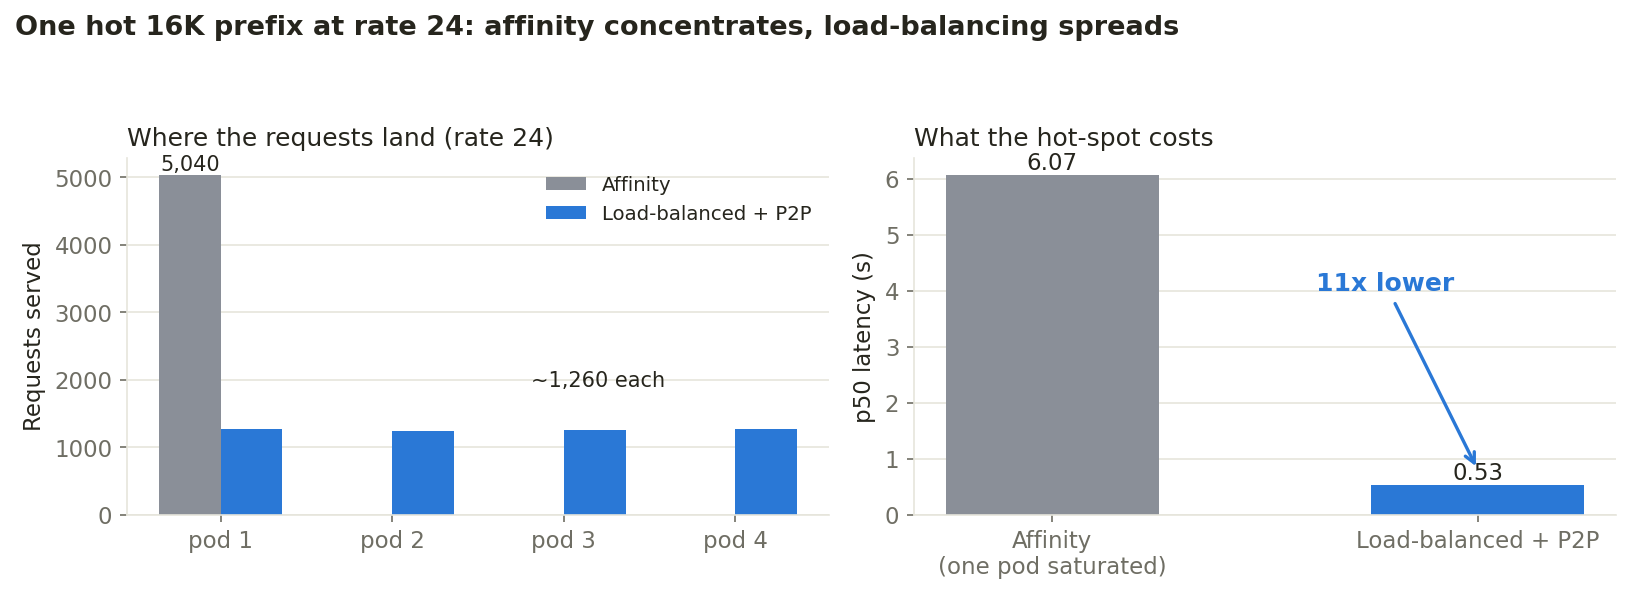
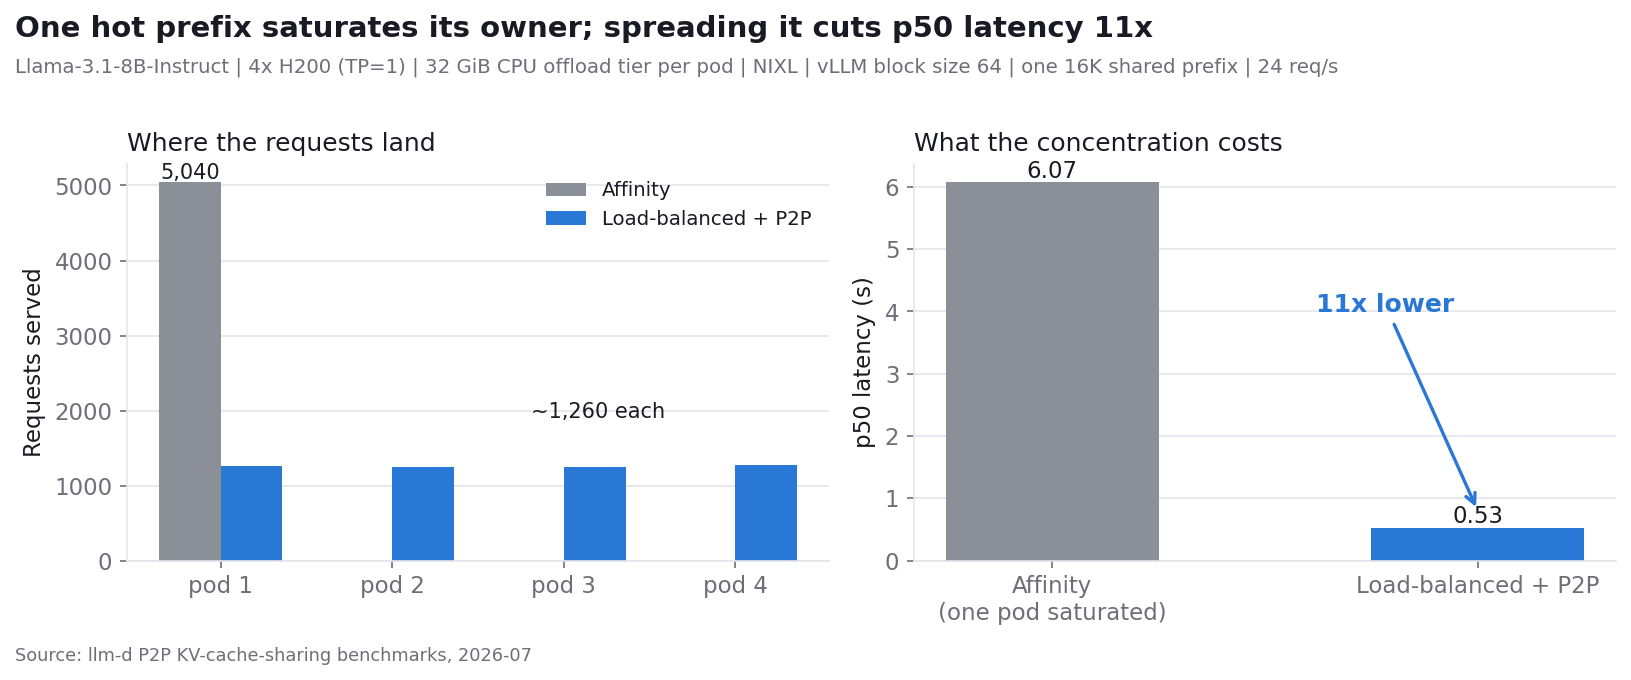
blog(p2p): InferenceMAX-style figures for the small-model scenarios; antislop pass
The four Llama-8B figures get the same headline/spec/source chrome as the
gpt-oss figures; text sweep removes filler intensifiers and marker
phrasing.

diff --git a/blog/2026-08-15_p2p-kv-cache-sharing-llm-d.md b/blog/2026-08-15_p2p-kv-cache-sharing-llm-d.md
@@ -34,7 +34,7 @@ llm-d already attacks this problem from two directions:
 * **Prefix-aware routing.** The EPP tracks which pods hold which prefix blocks (approximately, from routing history, or precisely, from KV events) and scores candidates accordingly, so requests land where their cache lives.
 * **KV cache offloading.** vLLM's Offloading Connector spills KV blocks from GPU HBM to a much larger CPU memory tier, and llm-d's [filesystem backend](https://llm-d.ai/blog/native-kv-cache-offloading-to-any-file-system-with-llm-d) extends that to shared storage for cluster-wide reuse and persistence.
 
-But routing alone cannot make a cold pod warm, and shared storage introduces an infrastructure dependency plus a storage-speed data path. There is a middle option: the blocks the request needs are often sitting in a peer pod's CPU offload tier, one network hop away, at memory speed. P2P KV cache sharing uses exactly that path.
+But routing alone cannot make a cold pod warm, and shared storage introduces an infrastructure dependency plus a storage-speed data path. There is a middle option: the blocks the request needs are often sitting in a peer pod's CPU offload tier, one network hop away, at memory speed. P2P KV cache sharing uses that path.
 
 ## How P2P Works
 
@@ -45,7 +45,7 @@ The P2P connector generalizes the prefill/decode (P/D) disaggregation connector 
 
 A single peer can be a consumer for some requests and a producer for others at the same time, over the same session.
 
-The transfer itself is best-effort and asynchronous. The consumer sends the producer the block hashes it needs; the producer matches them against its local CPU cache and answers with the hits; the consumer allocates CPU slots for the hits and the producer pushes the blocks over NIXL. Hits load into the GPU as normal cache hits; misses are simply recomputed by the engine, so a partial or failed transfer degrades to today's behavior rather than failing the request.
+The transfer itself is best-effort and asynchronous. The consumer sends the producer the block hashes it needs; the producer matches them against its local CPU cache and answers with the hits; the consumer allocates CPU slots for the hits and the producer pushes the blocks over NIXL. Hits load into the GPU as normal cache hits; misses are recomputed by the engine, so a partial or failed transfer degrades to today's behavior rather than failing the request.
 
 {/* TODO: architecture figure - consumer/producer control + data path
    (ZMQ lookup/fetch, NIXL write), alongside the EPP header flow. */}
@@ -121,8 +121,8 @@ The workload where the pull changes what users feel: 192 distinct
 questions with 256-token answers, 128 conversations in flight - the
 enterprise document-assistant shape, where time to first token dominates
 the experience. The working set oversubscribes the fleet's GPU cache, so
-where a request lands decides whether its document is a cache hit, a
-recompute, or a wait in line.
+request placement decides whether a document is a cache hit, a recompute,
+or a wait in line.
 
 Two arms: the precise prefix-cache routing configuration (prefix-first
 placement), and load-aware placement with the P2P pull. Two full runs with
@@ -271,6 +271,6 @@ recomputes, and that is where load-aware placement plus the pull wins:
 benchmark 2-4x lower p99 TTFT with up to +17% throughput over precise
 prefix routing.
 
-The natural follow-up is agentic workloads. In real Claude Code traces (the [Weka trace corpus](https://www.semianalysis.com/) published by SemiAnalysis), over half of all model requests arrive through sub-agent bursts - a median of seven per group, 51 at p90 - each inheriting the parent session's context as a verbatim prefix, with no advance signal to the serving layer. A burst that spills across pods today recomputes that repository-scale prefix once per pod; with P2P, the pod that already holds it computes nothing and everyone else pulls. A follow-up post will replay these traces (inference-perf's `weka_trace_replay`) against a P2P-enabled deployment to measure exactly that - sub-agent fan-out, session handoff, and think-time gaps included. {/* TODO: fix the corpus link to the exact trace release, and link the agentic-serving GLM post once published */}
+The natural follow-up is agentic workloads. In real Claude Code traces (the [Weka trace corpus](https://www.semianalysis.com/) published by SemiAnalysis), over half of all model requests arrive through sub-agent bursts - a median of seven per group, 51 at p90 - each inheriting the parent session's context as a verbatim prefix, with no advance signal to the serving layer. A burst that spills across pods today recomputes that repository-scale prefix once per pod; with P2P, the pod that already holds it computes nothing and everyone else pulls. A follow-up post will replay these traces (inference-perf's `weka_trace_replay`) against a P2P-enabled deployment to measure that directly - sub-agent fan-out, session handoff, and think-time gaps included. {/* TODO: fix the corpus link to the exact trace release, and link the agentic-serving GLM post once published */}
 
 The work is tracked in llm-d-router [#1574](https://github.com/llm-d/llm-d-router/issues/1574) (P2P connector design) and [#1923](https://github.com/llm-d/llm-d-router/issues/1923) (EPP source selection). {/* TODO: link the well-lit-path guide and the vLLM offloading-connector pieces once merged; update status wording at publish time. */}
